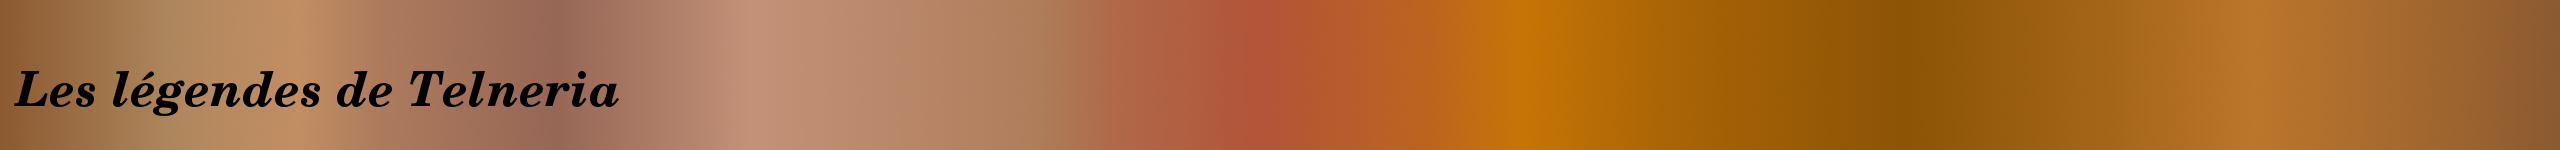
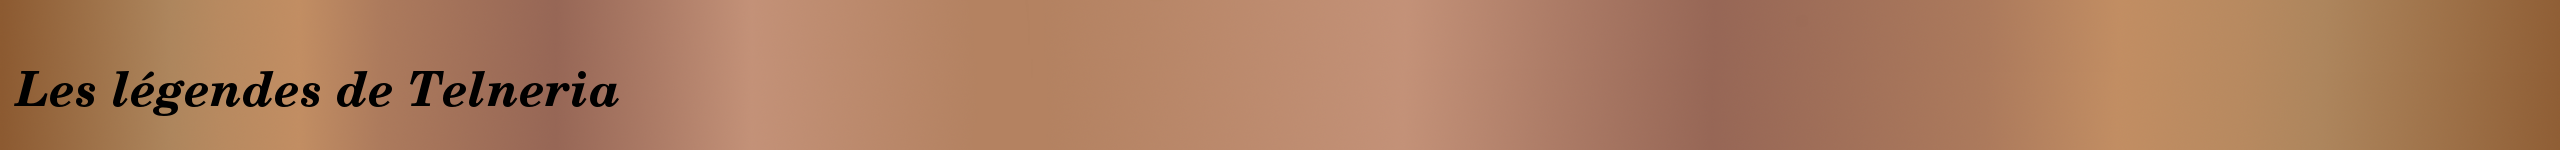
Insertion des images de parchemin pour les fonds des zones du site.

diff --git a/style/layout.css b/style/layout.css
@@ -2,7 +2,11 @@
 
 body
 {
-	background-color:#E9E79E;
+	/*background-color:#E9E79E;*/
+        background-image:url('../ressources/FondParchemin.jpg');
+        /*background-repeat:no-repeat;
+	background-position:left;
+        background-position:100% 100%;*/
 	padding:0px;
 	margin:0px;
 }
@@ -25,6 +29,7 @@ body
 	margin-right:1%;
 	margin-bottom:10px;
         
+        /*background-image: url('../ressources/FondParcheminFonce.jpg');*/
 	background-image:url('../ressources/header.png');
 	background-repeat:no-repeat;
 	background-position:left;
@@ -52,7 +57,8 @@ body
 	margin-bottom:10px;
         
 	text-align:right;
-	background-color:#AE803C;
+	/*background-color:#AE803C;*/
+        background-image: url('../ressources/FondParcheminFonce.jpg');
 }
 
 /* Le menu de gauche au milieu */
@@ -73,7 +79,8 @@ body
 	margin-right:0%;
 	margin-bottom:10px;
         
-	background-color: #D06E3D;
+	/*background-color: #D06E3D;*/
+        background-image: url('../ressources/FondParcheminRouge.jpg');
 }
 
 /* La zone centrale à droite du menu principal */
@@ -96,7 +103,8 @@ body
 	margin-right:0%;
 	margin-bottom:10px;
 	
-	background-color:#FFFFFF;
+	/*background-color:#FFFFFF;*/
+        background-image: url('../ressources/FondParcheminClair.jpg');
 
 }
 
@@ -118,7 +126,8 @@ body
 	margin-right:1%;
 	margin-bottom:10px;
 	
-        background-color:#AE803C;
+        /*background-color:#AE803C;*/
+        background-image: url('../ressources/FondParcheminFonce.jpg');
         
         text-align: center;
 }
@@ -158,6 +167,8 @@ body
         
         font-family: Verdana, Geneva, sans-serif;
         font-size: 14px;
+        
+        background-image: url('../ressources/FondParcheminClair.jpg');
 }
 
 .menuElement:link

diff --git a/style/style.css b/style/style.css
@@ -93,7 +93,7 @@ p
 
 h1
 {
-    font-family: Verdana, Geneva, sans-serif;
+    font-family: Geneva, sans-serif;
     font-size: 22px;
     font-weight: bold;
     color : #C03000;
@@ -101,7 +101,7 @@ h1
 
 h2
 {
-    font-family: Verdana, Geneva, sans-serif;
+    font-family: Geneva, sans-serif;
     font-size: 20px;
     font-weight: bold;
     color : #B9121B;
@@ -109,7 +109,7 @@ h2
 
 h3
 {
-    font-family: Verdana, Geneva, sans-serif;
+    font-family: Geneva, sans-serif;
     font-size: 18px;
     font-weight: bold;
     color : #4A1A2C;
@@ -117,7 +117,7 @@ h3
 
 h4
 {
-    font-family: Verdana, Geneva, sans-serif;
+    font-family: Geneva, sans-serif;
     font-size: 16px;
     font-weight: bold;
     color : #4C1B1B;
